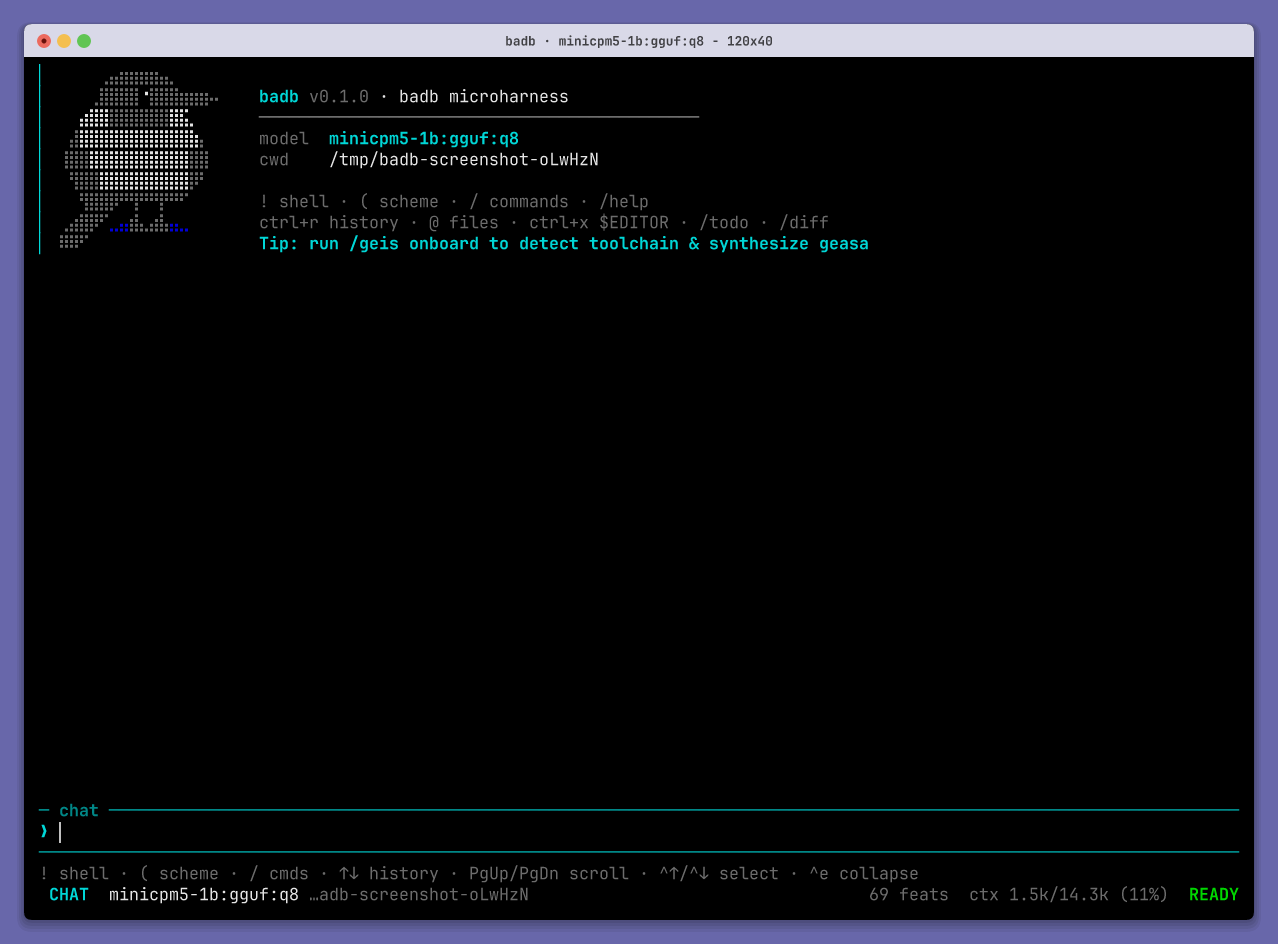
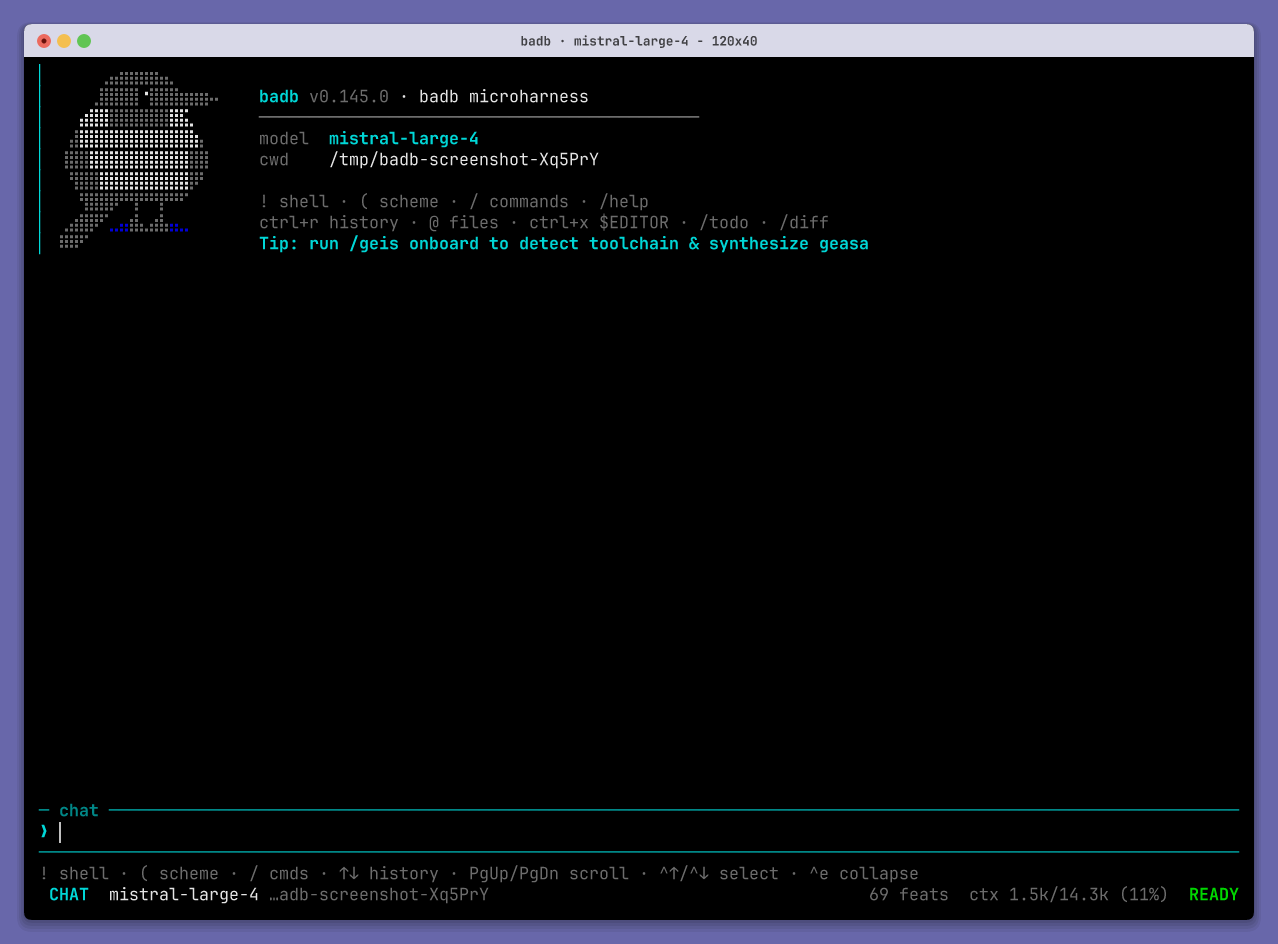
docs: update README and TUI screenshot

diff --git a/README.md b/README.md
@@ -18,7 +18,7 @@ In Celtic mythology, **Badb** (pronounced "bave", like "cave" with a "b") is a s
 
 That is how this harness works: the harness morphs into whatever shape you require, granting powerful agentic capabilities governed by verified contracts.
 
-**Status:** Alpha — ships with a pure microkernel, 30+ contract-verified capability and runtime geasa, and a full-featured interactive terminal user interface (TUI).
+**Status:** Alpha — ships with a pure microkernel, 45 contract-verified geasa bundles, and a full-featured interactive terminal user interface (TUI).
 
 ---
 
@@ -91,7 +91,7 @@ The core microkernel lives under `src/badb/kernel/` (`(badb kernel ...)`):
 - **`journal.scm`**: Append-only provenance log (`.badb/journal.jsonl`) recording iterations, checkpoints, and execution history.
 - **`transaction.scm`**: Transactional isolation and rollback machinery.
 - **`digest.scm`**: Cryptographic content digests and manifest pinning (`sha256`).
-- **`geis-gate.scm`**: Kernel-owned verification gate that re適lays contract specifications (`spec.geis.scm`) inside isolated subprocesses before locking capabilities into runtime.
+- **`geis-gate.scm`**: Kernel-owned verification gate that replays contract specifications (`spec.geis.scm`) inside isolated subprocesses before locking capabilities into runtime.
 - **`ipc.scm`**: Safe inter-process communication primitives.
 
 Formal kernel invariants (zero user-space imports, epistemic purity, McCabe complexity limits, whitelist containment) are continuously verified in the test suite (`test/test-kernel-design.scm`).
@@ -176,6 +176,9 @@ Running `./scripts/badb init` or `onboard` establishes project-scoped harness st
 # Context index token virtualization statistics
 ./scripts/badb ctx stats
 
+# Serve the Agent Client Protocol over stdio (editor surface)
+./scripts/badb acp
+
 # Help and version flags
 ./scripts/badb -h, --help
 ./scripts/badb -V, --version
@@ -217,14 +220,14 @@ The terminal interface provides an interactive coding and steering environment f
 
 ### Modes & Navigation
 
-- **Input Prompt:** Type regular messages to talk to the agent.
+- **Input Prompt:** Type regular messages to talk to the agent. Use `@` to reference workspace files, `Ctrl + R` to search input history, and `Ctrl + X` to compose in `$EDITOR`.
 - **Shell Commands:** Prefix input with `!` (or use `/sh <cmd>`) to execute local shell commands directly.
 - **Scheme Evaluation:** Prefix with `,` or enter an s-expression `(...)` (or use `/eval <expr>`) to evaluate Guile Scheme in the running harness.
 - **Message Selection:** Use `Ctrl + Up` and `Ctrl + Down` to navigate message history blocks.
-- **Fold/Unfold:** Press `Ctrl + E` to collapse or expand the selected message block.
-- **Interactive Steering:** While an agent loop is running, type text and press `Enter` to queue steering instructions.
-- **Interrupt:** Press `Ctrl + I` (or `/interrupt`) to pause the agent at the next iteration boundary.
-- **Menus:** Commands like `/model`, `/endpoint`, or `/config` open interactive navigation menus (`Up`/`Down` to navigate, `Enter` to select, `Esc` to cancel).
+- **Fold/Unfold:** Press `Ctrl + E` to collapse or expand the selected message block (or the latest collapsed message when none is selected).
+- **Interactive Steering:** While an agent loop is running, type text and press `Enter` to queue steering instructions (or use `/steer [--urgent|!] <text>`).
+- **Interrupt:** Press `Ctrl + I` (or `/interrupt`) to pause the agent at the next iteration boundary, or `/stop` to force-stop the active run.
+- **Menus:** Typing `/` opens categorized, nested command menus (`Up`/`Down` to navigate, `Enter` to select, `Esc`/`Left` to go back or close), as do `/model`, `/endpoint`, and `/config`.
 
 ### Slash Commands
 
@@ -235,6 +238,8 @@ The TUI provides built-in commands for managing the session, models, tools, and 
 - `/models` — Query and list available models from the active endpoint.
 - `/endpoint [URL]` — Switch API base URL (opens selection menu if omitted).
 - `/provider [NAME]` — Switch or inspect provider presets (e.g. `openai`, `anthropic`, `local`).
+- `/config [CMD]` — Inspect, reload, save, or set badb configuration (opens menu if omitted).
+- `/theme [NAME]` — Switch UI theme with live preview.
 
 #### Environment & MCP
 - `/mcp` — Manage Model Context Protocol servers:
@@ -250,10 +255,19 @@ The TUI provides built-in commands for managing the session, models, tools, and 
 - `/guardrail [LEVEL]` — Set execution guardrail policy (`disabled`, `permissive`, `cautious`, `strict`, `paranoid`).
 - `/checkpoint [DESC]` — Take a snapshot of the current workspace state.
 - `/rollback [ID]` — Revert workspace to latest or specified checkpoint.
+- `/fork [ID]` — Create a conversation branch at the current or specified checkpoint.
+- `/replay <ID>` — Restore a saved conversation and workspace checkpoint.
 - `/compact` — Compact conversation history to reduce context window usage.
 - `/resume` — Resume a saved chat session from disk.
 - `/dump [PATH]` — Export current conversation transcript to a text file.
 - `/clear` — Clear the conversation buffer.
+
+#### Workspace & Execution
+- `/todo [add|toggle|remove|clear]` — Manage the interactive session task list.
+- `/diff [ARGS]` — View formatted unstaged `git diff` output in the transcript.
+- `/steer [--urgent|!] <TEXT>` — Queue steering text for the running or next agent loop.
+- `/interrupt` / `/stop` — Halt the agent at its next boundary or force-stop the active run.
+- `/subagents` — List active subagents for the current run.
 
 #### Context & Knowledge
 - `/rules` — View discovered project rules, conventions, and filetree structure.
@@ -392,6 +406,12 @@ badb features a comprehensive testing pipeline covering kernel invariants, adver
 
 # Run headless TUI terminal scenarios via tui-test
 ./scripts/devenv -- ./scripts/test-e2e --tui
+
+# Run adversarial challenger suites
+./scripts/devenv -- ./scripts/test-adversarial
+
+# Run the ACP Test Compatibility Kit against `badb acp`
+./scripts/devenv -- ./scripts/test-acp-tck
 ```
 
 ### Real Model Testing
@@ -411,32 +431,38 @@ E2E_CHAT_MODEL="your-model-id" \
 ```text
 badb/
 ├── channels.scm / manifest.scm   # Pinned GNU Guix environment definitions
-├── license.md                     # LGPLv3 license terms
+├── LICENSE.md                    # LGPLv3 license terms
+├── docs/tui-screenshot.png       # Vanilla TUI screenshot
 ├── scripts/
 │   ├── badb                      # Harness CLI entrypoint launcher
 │   ├── devenv                    # Guix time-machine development shell wrapper
+│   ├── dist                      # Relocatable Guix pack tarball builder
+│   ├── format-scheme             # cl-indentify formatter & bundle manifest re-pinner
+│   ├── screenshot-tui            # Vanilla TUI screenshot capture via tui-test
 │   ├── test                      # Bootstrap unit and kernel invariant test runner
+│   ├── test-acp-tck              # ACP Test Compatibility Kit runner
+│   ├── test-adversarial          # Adversarial challenger test runner
 │   ├── test-e2e                  # Headless end-to-end and TUI test runner
 │   └── verify-geasa              # Parallel geis contract verification script
 ├── src/
-│   ├── srfi/srfi-253.scm         # SRFI-253 contract specification support
-│   ├── badb/                     # Microkernel core & CLI dispatch
+│   ├── badb/                     # Microkernel core, bundle tooling & CLI dispatch
 │   │   ├── kernel/               # Pure kernel: digest, geis-gate, ipc, journal, registry, transaction
 │   │   ├── spec.scm              # Contract & property test engine
 │   │   ├── spec-gate.scm         # Locked-spec verification gate
-│   │   ├── geis/bundle.scm       # Bundle discovery, packing, installation & verification
+│   │   ├── dist.scm              # Relocatable bundle distribution helper
+│   │   ├── geis/                 # Bundle discovery, capabilities, worker & verification
 │   │   ├── capabilities/         # filetree-mcp (stdio MCP server)
 │   │   ├── surfaces/cli.scm      # CLI rendering, formatting & ANSI colors
 │   │   └── main.scm              # Command-line entrypoint & option dispatch
 │   └── geasa/                    # Modular capability bundles (the geasa):
-│       ├── capabilities-*        # fs-tools, context-index, code-nav, mcp, history, skills
-│       ├── runtimes-*            # react, react-stream, context, prompt, rollback, synthesis
-│       ├── providers-model       # Model client adapters (OpenAI, Anthropic, mock)
-│       ├── providers-systemone     # TypeSafe System One (Jev) HTTP provider
-│       ├── surfaces-tui          # Interactive terminal UI (editor, session, transcript, menus)
-│       ├── policies-guardrail    # Safety policies & security levels
-│       ├── policies-systemone-gate # Optional system-1 geis gate (ReAct hooks)
-│       └── persona-*             # Personas (base, badb, synthesizer)
+│       ├── agents-*              # coordination, lifecycle, subagent
+│       ├── capabilities-*        # bubblewrap, code-nav, context-index, fs-tools, git, history-tools, lsp, macro, mcp, mcp-server, rtk, scheme-eval, skills, structural-editing, treesitter
+│       ├── foundation-*          # config, log, srfi-253, util
+│       ├── persona-*             # badb, base, synthesizer
+│       ├── policies-*            # guardrail, systemone-gate
+│       ├── providers-*           # model, systemone
+│       ├── runtimes-*            # context, freshness, geis-loader, loop-guard, prompt, react, react-stream, retry, rollback, synthesis, verify, workflows
+│       └── surfaces-*            # acp, spec-tools, theme, tui
 ├── workflows/                    # Declarative Sema workflows
 └── test/                         # Test fixtures, adversarial suites, specs & e2e tests
 ```
@@ -445,7 +471,7 @@ badb/
 
 ## License
 
-badb is released under the **GNU Lesser General Public License v3.0** (LGPLv3). See [license.md](license.md) for complete details.
+badb is released under the **GNU Lesser General Public License v3.0** (LGPLv3). See [LICENSE.md](LICENSE.md) for complete details.
 
 [GNU Guix]: https://guix.gnu.org
 [GNU Guile]: https://www.gnu.org/software/guile/
